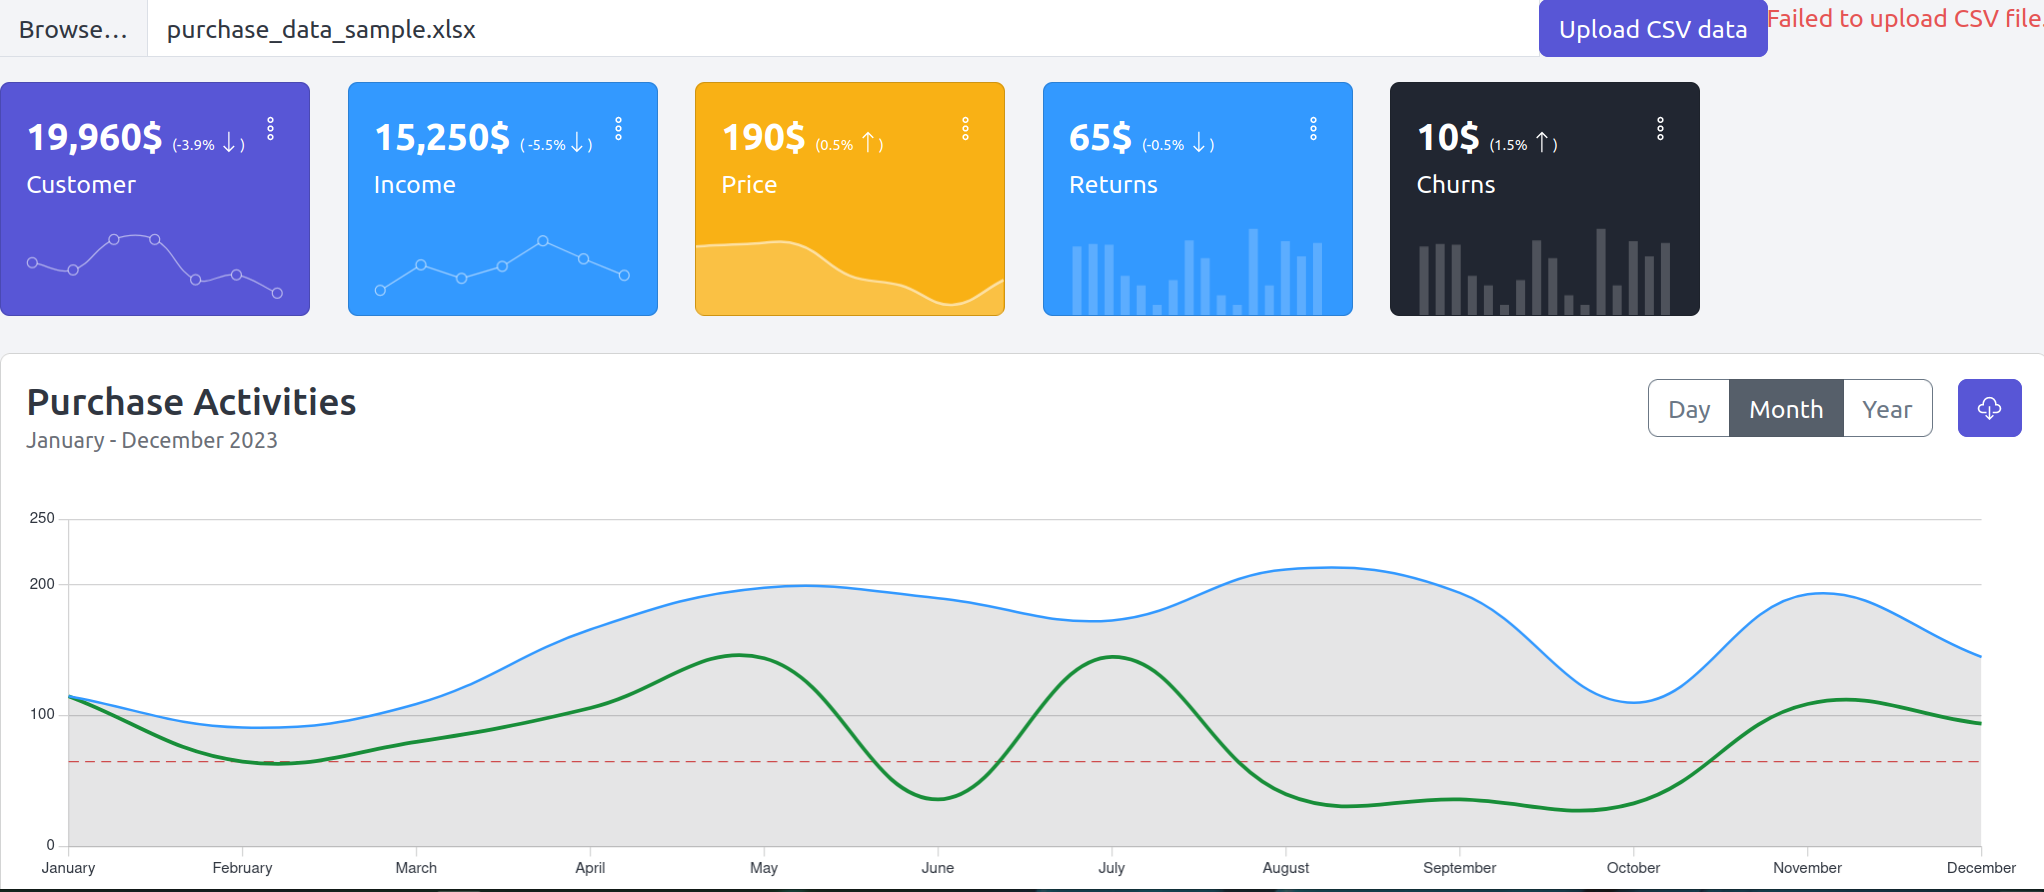
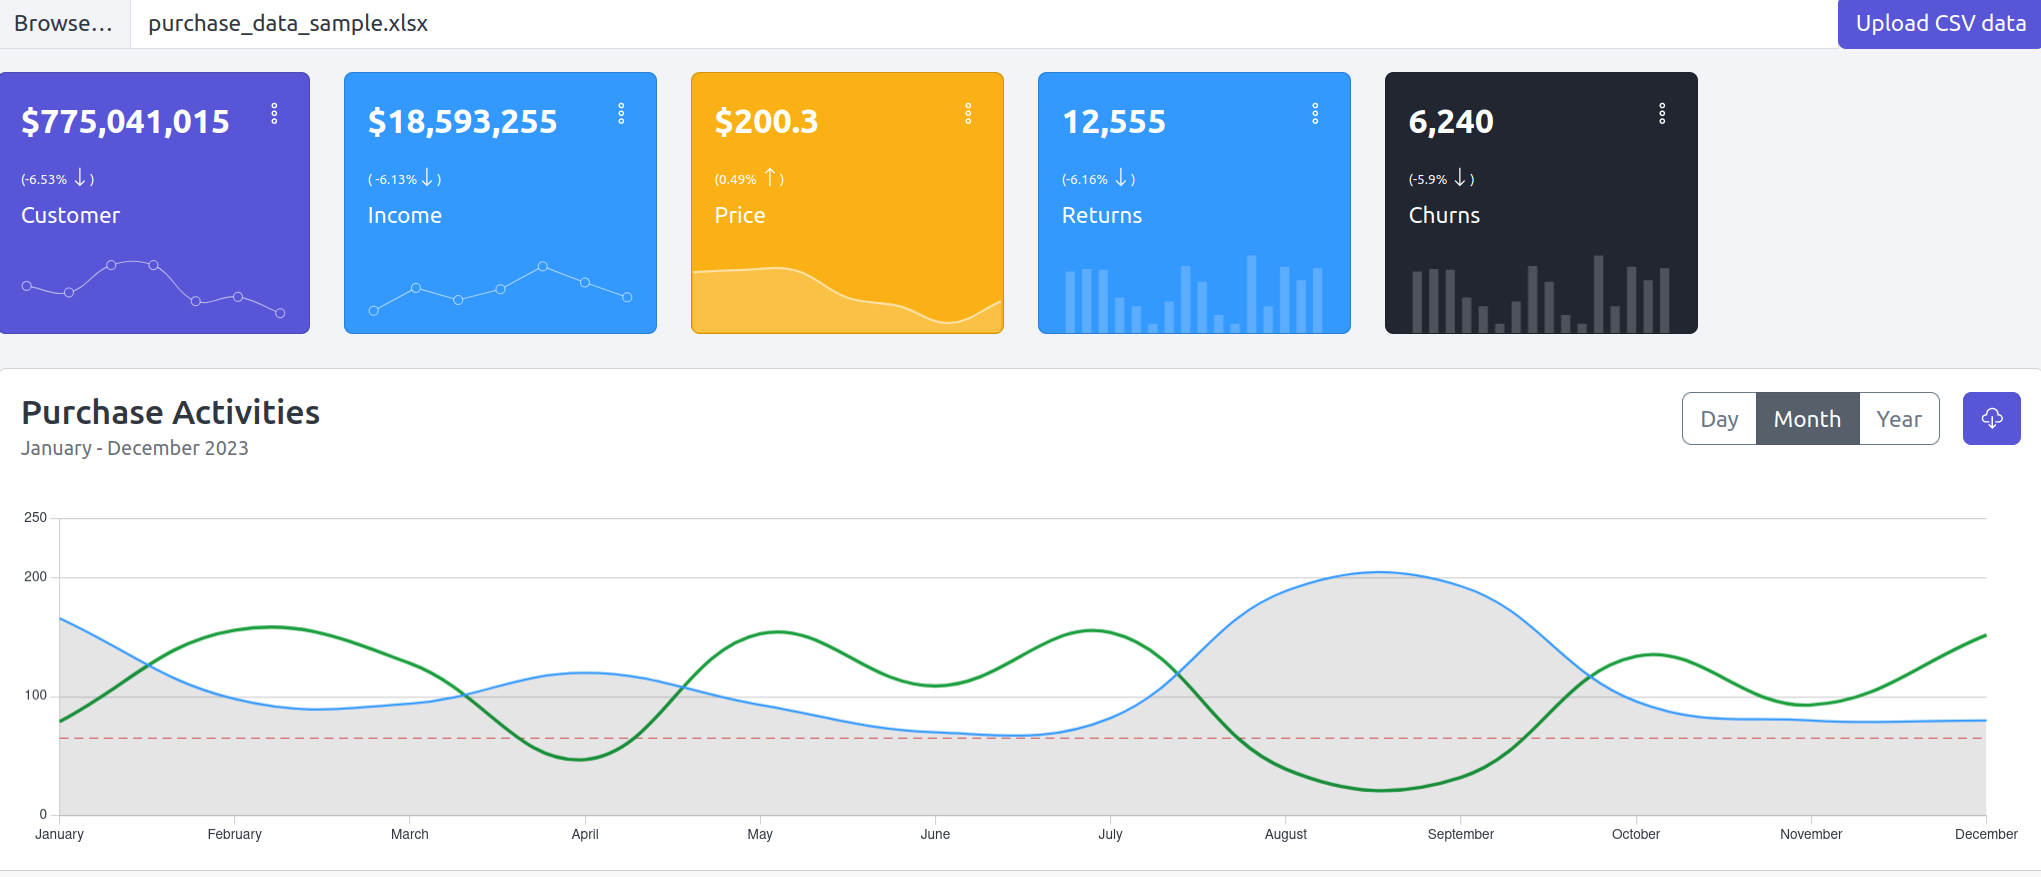
update the stats  widget
- API demo data:
data_dict, stats_dict = demo_preparation_modeling_pipelines()

diff --git a/dashboard/src/app/widgets/widgets-dropdown/widgets-dropdown.component.html b/dashboard/src/app/widgets/widgets-dropdown/widgets-dropdown.component.html
@@ -2,7 +2,7 @@
   <c-col sm="5" xl="2">
     <c-widget-stat-a color="primary" [title]="'Customer'">
       <ng-template cTemplateId="widgetValueTemplate" ngPreserveWhitespaces>
-       {{apiStats.Customer.value}}
+        <span>${{apiStats.Customer.value}}</span> <br>
         <span class="fw-normal" style="font-size: 12px">
           ({{apiStats.Customer.rate}}% <svg cIcon name={{apiStats.Customer.arrow}} size="sm"></svg>)
         </span>
@@ -46,7 +46,7 @@
   <c-col sm="5" xl="2">
     <c-widget-stat-a [title]="'Income'" color="info">
       <ng-template cTemplateId="widgetValueTemplate" ngPreserveWhitespaces>
-        <span> {{apiStats.Income.value}}</span>
+        <span> ${{apiStats.Income.value}}</span> <br>
         <span class="fw-normal" style="font-size: 12px">
           ( {{apiStats.Income.rate}}%<svg cIcon name= {{apiStats.Income.arrow}} size="sm"></svg>)
         </span>
@@ -87,7 +87,7 @@
   <c-col sm="5" xl="2">
     <c-widget-stat-a [title]="'Price'" color="warning">
       <ng-template cTemplateId="widgetValueTemplate" ngPreserveWhitespaces>
-        <span>{{apiStats.Price.value}}</span>
+        <span>${{apiStats.Price.value}}</span> <br>
         <span class="fw-normal" style="font-size: 12px">
           ({{apiStats.Price.rate}}% <svg cIcon name={{apiStats.Price.arrow}} size="sm"></svg>)
         </span>
@@ -128,7 +128,7 @@
   <c-col sm="5" xl="2">
     <c-widget-stat-a [title]="'Returns'" color="info">
       <ng-template cTemplateId="widgetValueTemplate" ngPreserveWhitespaces>
-        <span>{{apiStats.Returns.value}}</span>
+        <span>{{apiStats.Returns.value}}</span> <br>
         <span class="fw-normal" style="font-size: 12px">
           ({{apiStats.Returns.rate}}% <svg cIcon name={{apiStats.Returns.arrow}} size="sm"></svg>)
         </span>
@@ -169,7 +169,7 @@
   <c-col sm="5" xl="2">
     <c-widget-stat-a [title]="'Churns'" color="dark">
       <ng-template cTemplateId="widgetValueTemplate" ngPreserveWhitespaces>
-        <span>{{apiStats.Churns.value}}</span>
+        <span>{{apiStats.Churns.value}}</span> <br>
         <span class="fw-normal" style="font-size: 12px">
           ({{apiStats.Churns.rate}}% <svg cIcon name={{apiStats.Churns.arrow}} size="sm"></svg>)
         </span>

diff --git a/dashboard/src/app/dashboard/dashboard.component.ts b/dashboard/src/app/dashboard/dashboard.component.ts
@@ -140,7 +140,6 @@ export class DashboardComponent implements OnInit {
           this.Data_toPlot = response.data.data_dict;
           this.stats = response.data.stats_dict;
           this.build_data_for_charts();
-          console.log('apiStats' + this.stats);
           // this.createChart();
           this.errorMessage = '';
         } else {
@@ -150,7 +149,7 @@ export class DashboardComponent implements OnInit {
       })
       .catch((error) => {
         console.error('Error uploading CSV:', error);
-        this.errorMessage = 'Failed to upload CSV file.';
+        // this.errorMessage = 'Failed to upload CSV file.';
       });
   }
 

diff --git a/dashboard/src/app/widgets/widgets-dropdown/widgets-dropdown.component.ts b/dashboard/src/app/widgets/widgets-dropdown/widgets-dropdown.component.ts
@@ -52,7 +52,7 @@ import {
 export class WidgetsDropdownComponent implements OnInit, AfterContentInit {
   constructor(private changeDetectorRef: ChangeDetectorRef) {}
 
-  @Input() apiStats: any = '';
+  @Input() apiStats: any;
 
   data: any[] = [];
   options: any[] = [];

diff --git a/src/utils/data_exploration.py b/src/utils/data_exploration.py
@@ -664,10 +664,17 @@ def model_deployment_pipeline():
     return {}
 
 
-def get_widget_info(value, rate):
+def get_widget_info(value, rate, digits=0):
     """
     build the attributes of the dashboard widget
     """
+    rate=float(rate)
+    if digits==0:
+        value=int(float(value))
+    else:
+        value=round(float(value), digits)
+
+    # define the arrow direction and color
     if rate > 0:
         arrow = "cilArrowTop"
         color = "color:green;"
@@ -679,7 +686,7 @@ def get_widget_info(value, rate):
         color = "color:red;"
 
     widget_dic = {
-        "value": "{:,}$".format(value),
+        "value": "{:,}".format(value),
         "rate": rate,
         "arrow": arrow,
         "color": color,
@@ -785,24 +792,32 @@ def prepare_the_API_dicts(
     stats_dict = {}
     stats_dict.update({"growth_rate": growth_rate_dict})
 
+
     # -- Customer
-    customer_dic = get_widget_info(value=19960, rate=-3.9)
+    customer_dic = get_widget_info(value=current_sales_stats_df["sum_sum_Cust_ID"],
+                                    rate=growth_rate_dict["Cust_ID"])
+
     stats_dict.update({"Customer": customer_dic})
 
     # -- Income
-    growth_dic = get_widget_info(value=15250, rate=-5.5)
-    stats_dict.update({"Income": growth_dic})
+    income_dic = get_widget_info(value=current_sales_stats_df["sum_sum_Purch_Amt"],
+                                  rate=growth_rate_dict["Purch_Amt"])
+    stats_dict.update({"Income": income_dic})
 
-    # -- Customer
-    price_dic = get_widget_info(value=190, rate=0.5)
+    # -- Price
+    price_dic = get_widget_info(value=current_sales_stats_df["avg_avg_Price"],
+                                    rate=growth_rate_dict["Price"],
+                                    digits=1)
     stats_dict.update({"Price": price_dic})
 
     # -- Returns
-    returns_dic = get_widget_info(value=65, rate=-0.5)
+    returns_dic = get_widget_info(value=current_sales_stats_df["sum_sum_Returns"],
+                                  rate=growth_rate_dict["Returns"])
     stats_dict.update({"Returns": returns_dic})
 
     # -- Churns
-    churns_dic = get_widget_info(value=10, rate=1.5)
+    churns_dic = get_widget_info(value=current_sales_stats_df["sum_sum_Churn"],
+                                  rate=growth_rate_dict["Churn"])
     stats_dict.update({"Churns": churns_dic})
 
     # display
@@ -814,43 +829,48 @@ def prepare_the_API_dicts(
 
 
 def demo_preparation_modeling_pipelines():
-    growth_rate_dict = load_dict_from_json(filepath="data/test/growth_rate_dict.json")
-    ratio_gender_dict = load_dict_from_json(filepath="data/test/ratio_gender_dict.json")
+    try:
+        growth_rate_dict = load_dict_from_json(filepath="data/test/growth_rate_dict.json")
+        ratio_gender_dict = load_dict_from_json(filepath="data/test/ratio_gender_dict.json")
 
-    yearly_stats_df = pd.DataFrame(
-        load_dict_from_json(filepath="data/test/yearly_stats_spark_df.json")
-    )
-    monthly_stats_df = pd.DataFrame(
-        load_dict_from_json(filepath="data/test/monthly_stats_spark_df.json")
-    )
-    past_sales_stats_df = pd.DataFrame(
-        load_dict_from_json(filepath="data/test/past_sales_stats_df.json")
-    )
-    current_sales_stats_df = pd.DataFrame(
-        load_dict_from_json(filepath="data/test/current_sales_stats_df.json")
-    )
-    top_ranked_clients_df = pd.DataFrame(
-        load_dict_from_json(filepath="data/test/top_ranked_clients_df.json")
-    )
-    worst_ranked_clients_df = pd.DataFrame(
-        load_dict_from_json(filepath="data/test/worst_ranked_clients_df.json")
-    )
-    top_purchases_by_gender_df = pd.DataFrame(
-        load_dict_from_json(filepath="data/test/top_purchases_by_gender_df.json")
-    )
+        yearly_stats_df = pd.DataFrame(
+            load_dict_from_json(filepath="data/test/yearly_stats_spark_df.json")
+        )
+        monthly_stats_df = pd.DataFrame(
+            load_dict_from_json(filepath="data/test/monthly_stats_spark_df.json")
+        )
+        past_sales_stats_df = pd.DataFrame(
+            load_dict_from_json(filepath="data/test/past_sales_stats_df.json")
+        )
+        current_sales_stats_df = pd.DataFrame(
+            load_dict_from_json(filepath="data/test/current_sales_stats_df.json")
+        )
+        top_ranked_clients_df = pd.DataFrame(
+            load_dict_from_json(filepath="data/test/top_ranked_clients_df.json")
+        )
+        worst_ranked_clients_df = pd.DataFrame(
+            load_dict_from_json(filepath="data/test/worst_ranked_clients_df.json")
+        )
+        top_purchases_by_gender_df = pd.DataFrame(
+            load_dict_from_json(filepath="data/test/top_purchases_by_gender_df.json")
+        )
 
-    # prepare the API dict
-    data_dict, stats_dict =prepare_the_API_dicts(
-        growth_rate_dict,
-        ratio_gender_dict,
-        monthly_stats_df,
-        yearly_stats_df,
-        past_sales_stats_df,
-        current_sales_stats_df,
-        top_ranked_clients_df,
-        worst_ranked_clients_df,
-        top_purchases_by_gender_df,
-    )
+        # prepare the API dict
+        data_dict, stats_dict =prepare_the_API_dicts(
+            growth_rate_dict,
+            ratio_gender_dict,
+            monthly_stats_df,
+            yearly_stats_df,
+            past_sales_stats_df,
+            current_sales_stats_df,
+            top_ranked_clients_df,
+            worst_ranked_clients_df,
+            top_purchases_by_gender_df,
+        )
+
+    except Exception as e:
+        print(f"Error: {e}")
+        raise e
 
     return data_dict, stats_dict
 

diff --git a/tests/test_database_api.py b/tests/test_database_api.py
@@ -1,15 +1,21 @@
 # --------------------------------------------------------------------------------------------------
 import os
 import sys
-import numpy as np
+
 import pytest
 
 sys.path
 sys.path.append("src")
 from fastapi.testclient import TestClient
-from testing_configuration import *
+from webapp import (
+    MySQL,
+    app,
+    create_table_query,
+    demo_preparation_modeling_pipelines,
+    table_name,
+)
 
-from webapp import MySQL, app, create_table_query, table_name
+from testing_configuration import *
 
 # check if we are on GITHUB_ACTIONS
 IN_GITHUB_ACTIONS = os.getenv("GITHUB_ACTIONS") == "true"
@@ -23,7 +29,16 @@ client = TestClient(app)
 print(f" root={os.getcwd()}")
 
 
-# @pytest.mark.skip(reason="already validated")
+# @pytest.mark.skip(reason="already validated, Skip for now!")
+@pytest.mark.skipif(sys.version_info < (3, 8), reason="Requires Python 3.8 or later.")
+class Test_data_exploration_pipelines:
+    def test_build_api_dict(self):
+        # Build the response dictionary
+        data_dict, stats_dict = demo_preparation_modeling_pipelines()
+        assert len(data_dict)>0 , f" No  data was loaded "
+        assert len(stats_dict)>0, f" No  stats was loaded "
+
+@pytest.mark.skip(reason="already validated, Skip for now!")
 @pytest.mark.skipif(sys.version_info < (3, 8), reason="Requires Python 3.8 or later.")
 class Test_Dashboard_APIs:
 
@@ -93,7 +108,6 @@ class Test_Dashboard_APIs:
 
 @pytest.mark.skipif(sys.version_info < (3, 8), reason="Requires Python 3.8 or later.")
 @pytest.mark.skipif(MySQL is None, reason="No database is found!! ")
-
 class Test_Database_Queries_via_APIs:
 
     def test_database_connection(self):
@@ -160,7 +174,7 @@ class Test_Database_Queries_via_APIs:
 
     def test_update_items(self):
         # Send a POST request to the /create_items/ endpoint
-        id=1
+        id = 1
         response = client.put(f"/items/{id}", json=update_data)
 
         # Assert that the response status code is 200 OK

diff --git a/src/main.py b/src/main.py
@@ -1,41 +1,11 @@
-import yaml
-from fastapi import FastAPI
-from fastapi.responses import JSONResponse
+# --------------------------------------------------------------------------------------------------
+import sys
 
-app = FastAPI()
+sys.path
+sys.path.append("src")
 
-# Load OpenAPI spec from swagger.yaml
-with open("swagger.yaml", "r") as f:
-    swagger_spec = yaml.safe_load(f)
+from utils.data_exploration import demo_preparation_modeling_pipelines
 
-# Sample data for demonstration
-items = [
-    {"id": 1, "name": "Item One"},
-    {"id": 2, "name": "Item Two"},
-]
-
-
-# Override FastAPI's OpenAPI method to use the external YAML file
-@app.get("/get-swagger")
-def custom_openapi():
-    return JSONResponse(swagger_spec)
-
-
-# API Endpoints
-@app.get("/items")
-def get_items():
-    return items
-
-
-@app.get("/items/{item_id}")
-def get_item(item_id: int):
-    item = next((item for item in items if item["id"] == item_id), None)
-    if item:
-        return item
-    return {"error": "Item not found"}, 404
-
-
-# Root endpoint
-@app.get("/")
-def root():
-    return {"message": "Hello World!"}
+if __name__ == "__main__":
+    # Build the response dictionary
+    demo_preparation_modeling_pipelines()
